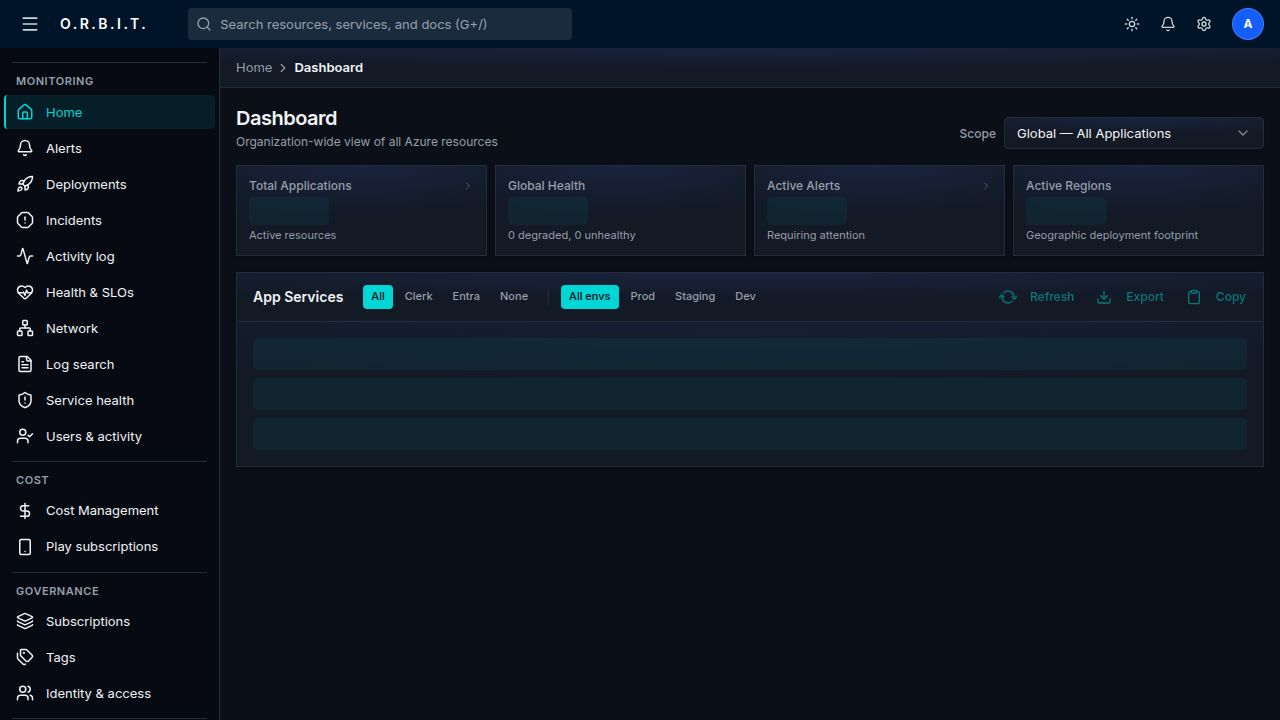
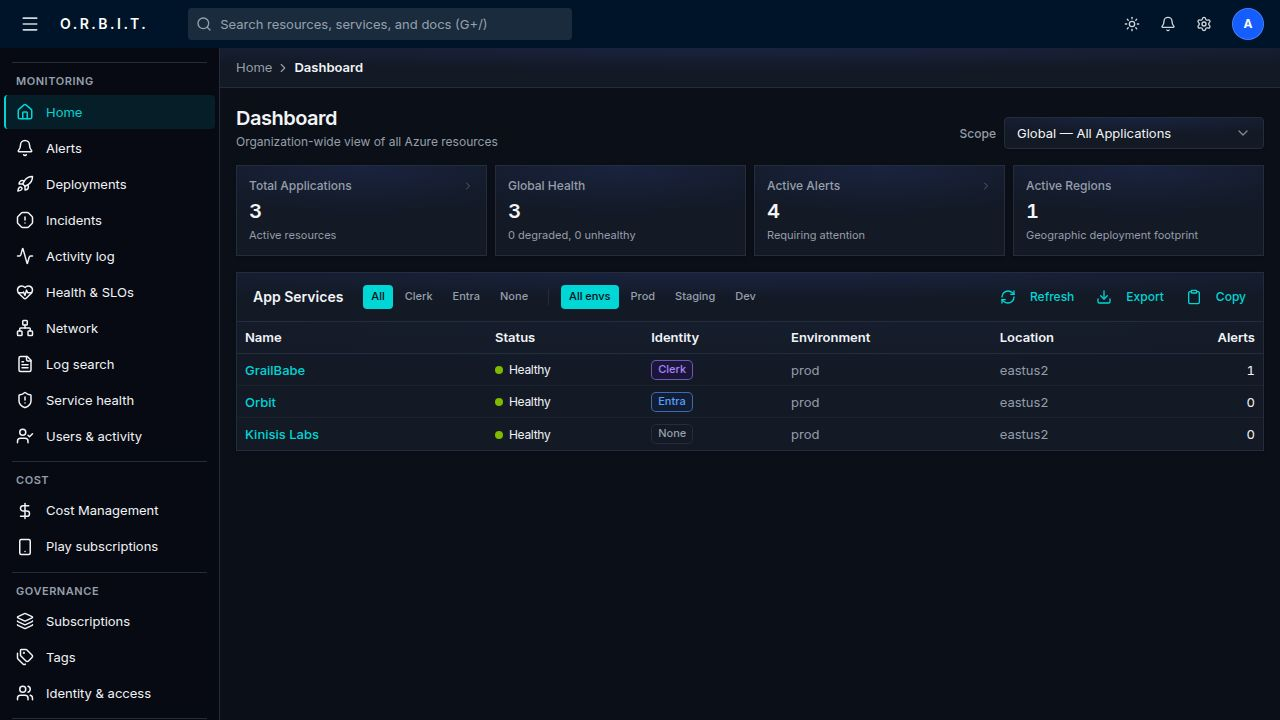
feat: show spend anomaly highlight when a daily bar is unusually high
Task: Show a spend anomaly highlight when a day is unusually high (#93)

## What was built

**Anomaly detection in DailySpendChart (`daily-spend-chart.tsx`)**
- Added `computeAnomalies()` — computes mean + N·σ across the visible window
  (default 2σ). Each data point is enriched with `{ isAnomaly, vsAvgMultiple,
  windowLabel }` that adapts when the user switches 7d / 14d / 30d ranges.
- Added `showAnomalies` (default `true`) and `anomalySigmas` (default `2`) props.
- Anomalous bars render in a distinct amber (`hsl(32 98% 46%)`) so they stand out
  from the primary-colour baseline bars.
- Legend entry "Spend anomaly (>2σ above window average)" appears automatically
  whenever at least one anomalous bar is visible in the current window.

**Tooltip annotation (`daily-spend-tooltip.tsx`)**
- When a bar is anomalous the tooltip gains an amber-coloured row showing
  "⚠ 2.4× 30d average" (or 7d / 14d depending on selected range) and the
  tooltip border turns amber so the callout is visually tied to the bar colour.

**Demo data spikes (`artifacts/api-server/src/routes/orbit.ts`)**
- `makeDaily()` now injects 1–2 deterministic anomaly spikes (2.4–3.0× base)
  per app using a seeded RNG (`seed + "spikes"`) so spikes are stable across
  reloads but vary per app. Without this, the uniform random distribution
  (0.6–1.4× base) never exceeded mean + 2σ (~1.46× base) so no bars would
  ever highlight in the demo environment.

## Scope / no deviations
[…]

diff --git a/artifacts/orbit/src/components/daily-spend-chart.tsx b/artifacts/orbit/src/components/daily-spend-chart.tsx
@@ -9,12 +9,21 @@ type DailyCostPoint = {
   vsLastWeek?: number | null;
 };
 
+type EnrichedPoint = DailyCostPoint & {
+  anomaly?: {
+    isAnomaly: boolean;
+    vsAvgMultiple: number;
+    windowLabel: string;
+  };
+};
+
 type Range = 7 | 14 | 30;
 
 const BAR_COLOR_DEFAULT = "hsl(var(--primary))";
 const BAR_COLOR_UP_MILD = "hsl(38 92% 50%)";
 const BAR_COLOR_UP_HIGH = "hsl(var(--destructive))";
 const BAR_COLOR_DOWN = "hsl(160 84% 39%)";
+const BAR_COLOR_ANOMALY = "hsl(32 98% 46%)";
 
 function getBarFill(vsLastWeek: number | null | undefined, threshold: number): string {
   if (vsLastWeek == null) return BAR_COLOR_DEFAULT;
@@ -29,28 +38,71 @@ const RANGE_OPTIONS: { label: string; days: Range }[] = [
   { label: "30d", days: 30 },
 ];
 
+function computeAnomalies(data: DailyCostPoint[], range: Range, sigmas: number): EnrichedPoint[] {
+  const values = data.map((d) => d.value);
+  if (values.length < 3) return data.map((d) => ({ ...d }));
+
+  const mean = values.reduce((s, v) => s + v, 0) / values.length;
+  const variance = values.reduce((s, v) => s + (v - mean) ** 2, 0) / values.length;
+  const sigma = Math.sqrt(variance);
+  const anomalyThreshold = mean + sigmas * sigma;
+  const windowLabel = `${range}d`;
+
+  return data.map((d) => ({
+    ...d,
+    anomaly: {
+      isAnomaly: d.value > anomalyThreshold && mean > 0,
+      vsAvgMultiple: mean > 0 ? d.value / mean : 1,
+      windowLabel,
+    },
+  }));
+}
+
 export function DailySpendChart({
   daily,
   formatCurrency,
   colorByTrend = false,
+  showAnomalies = true,
   showLegend = false,
   threshold = 15,
+  anomalySigmas = 2,
 }: {
   daily: DailyCostPoint[];
   formatCurrency: (v: number) => string;
   colorByTrend?: boolean;
+  showAnomalies?: boolean;
   showLegend?: boolean;
   threshold?: number;
+  anomalySigmas?: number;
 }) {
   const maxDays = daily.length;
   const defaultRange: Range = maxDays >= 30 ? 30 : maxDays >= 14 ? 14 : 7;
   const [range, setRange] = useState<Range>(defaultRange);
 
   const visibleData = useMemo(() => {
-    return daily.slice(-range);
-  }, [daily, range]);
+    const sliced = daily.slice(-range);
+    return showAnomalies ? computeAnomalies(sliced, range, anomalySigmas) : sliced.map((d) => ({ ...d }));
+  }, [daily, range, showAnomalies, anomalySigmas]);
+
+  const hasAnyAnomaly = useMemo(
+    () => showAnomalies && visibleData.some((d) => (d as EnrichedPoint).anomaly?.isAnomaly),
+    [visibleData, showAnomalies],
+  );
 
   const availableRanges = RANGE_OPTIONS.filter((o) => o.days <= Math.max(maxDays, 7));
+
+  function getCellFill(entry: EnrichedPoint, idx: number): string {
+    const anomaly = entry.anomaly;
+    if (colorByTrend) {
+      return getBarFill(entry.vsLastWeek, threshold);
+    }
+    if (showAnomalies && anomaly?.isAnomaly) {
+      return BAR_COLOR_ANOMALY;
+    }
+    return BAR_COLOR_DEFAULT;
+  }
+
+  const needsCells = colorByTrend || showAnomalies;
 
   return (
     <div className="flex flex-col h-full">
@@ -93,10 +145,10 @@ export function DailySpendChart({
               content={<DailySpendTooltip formatCurrency={formatCurrency} />}
               cursor={{ fill: "hsl(var(--muted))" }}
             />
-            {colorByTrend ? (
+            {needsCells ? (
               <Bar dataKey="value" radius={0}>
                 {visibleData.map((entry, idx) => (
-                  <Cell key={idx} fill={getBarFill(entry.vsLastWeek, threshold)} />
+                  <Cell key={idx} fill={getCellFill(entry as EnrichedPoint, idx)} />
                 ))}
               </Bar>
             ) : (
@@ -105,24 +157,34 @@ export function DailySpendChart({
           </BarChart>
         </ResponsiveContainer>
       </div>
-      {showLegend && colorByTrend && (
+      {(showLegend || hasAnyAnomaly) && (
         <div className="flex flex-wrap items-center gap-x-4 gap-y-1 px-1 pt-2 pb-1 text-[11px] text-muted-foreground shrink-0">
-          <div className="flex items-center gap-1.5">
-            <span className="inline-block w-2.5 h-2.5 shrink-0" style={{ background: BAR_COLOR_DOWN }} />
-            <span>Below last week</span>
-          </div>
-          <div className="flex items-center gap-1.5">
-            <span className="inline-block w-2.5 h-2.5 shrink-0" style={{ background: BAR_COLOR_UP_MILD }} />
-            <span>Up 0–{threshold}%</span>
-          </div>
-          <div className="flex items-center gap-1.5">
-            <span className="inline-block w-2.5 h-2.5 shrink-0" style={{ background: BAR_COLOR_UP_HIGH }} />
-            <span>Up &gt;{threshold}%</span>
-          </div>
-          <div className="flex items-center gap-1.5">
-            <span className="inline-block w-2.5 h-2.5 shrink-0" style={{ background: BAR_COLOR_DEFAULT }} />
-            <span>No prior data</span>
-          </div>
+          {showLegend && colorByTrend && (
+            <>
+              <div className="flex items-center gap-1.5">
+                <span className="inline-block w-2.5 h-2.5 shrink-0" style={{ background: BAR_COLOR_DOWN }} />
+                <span>Below last week</span>
+              </div>
+              <div className="flex items-center gap-1.5">
+                <span className="inline-block w-2.5 h-2.5 shrink-0" style={{ background: BAR_COLOR_UP_MILD }} />
+                <span>Up 0–{threshold}%</span>
+              </div>
+              <div className="flex items-center gap-1.5">
+                <span className="inline-block w-2.5 h-2.5 shrink-0" style={{ background: BAR_COLOR_UP_HIGH }} />
+                <span>Up &gt;{threshold}%</span>
+              </div>
+              <div className="flex items-center gap-1.5">
+                <span className="inline-block w-2.5 h-2.5 shrink-0" style={{ background: BAR_COLOR_DEFAULT }} />
+                <span>No prior data</span>
+              </div>
+            </>
+          )}
+          {hasAnyAnomaly && (
+            <div className="flex items-center gap-1.5">
+              <span className="inline-block w-2.5 h-2.5 shrink-0" style={{ background: BAR_COLOR_ANOMALY }} />
+              <span>Spend anomaly (&gt;{anomalySigmas}σ above window average)</span>
+            </div>
+          )}
         </div>
       )}
     </div>

diff --git a/artifacts/orbit/src/components/daily-spend-tooltip.tsx b/artifacts/orbit/src/components/daily-spend-tooltip.tsx
@@ -1,6 +1,12 @@
 import { format } from "date-fns";
 import type { TooltipProps } from "recharts";
 
+type AnomalyInfo = {
+  isAnomaly: boolean;
+  vsAvgMultiple: number;
+  windowLabel: string;
+};
+
 export function DailySpendTooltip({
   active,
   payload,
@@ -8,15 +14,22 @@ export function DailySpendTooltip({
   formatCurrency,
 }: TooltipProps<number, string> & { formatCurrency: (v: number) => string }) {
   if (!active || !payload?.length) return null;
-  const point = payload[0].payload as { value: number; vsLastWeek?: number | null };
+  const point = payload[0].payload as {
+    value: number;
+    vsLastWeek?: number | null;
+    anomaly?: AnomalyInfo;
+  };
   const vsLastWeek = point.vsLastWeek;
   const isUp = vsLastWeek != null && vsLastWeek > 0;
   const isDown = vsLastWeek != null && vsLastWeek < 0;
+  const anomaly = point.anomaly;
+  const showAnomaly = anomaly?.isAnomaly;
+
   return (
     <div
       style={{
         backgroundColor: "hsl(var(--card))",
-        borderColor: "hsl(var(--border))",
+        borderColor: showAnomaly ? "hsl(32 98% 46%)" : "hsl(var(--border))",
         borderWidth: 1,
         borderStyle: "solid",
         borderRadius: 2,
@@ -35,6 +48,14 @@ export function DailySpendTooltip({
           className={`tabular-nums mt-0.5 ${isUp ? "text-destructive" : isDown ? "text-emerald-500" : "text-muted-foreground"}`}
         >
           {isUp ? "↑" : isDown ? "↓" : "—"} {Math.abs(vsLastWeek).toFixed(1)}% vs last week
+        </div>
+      )}
+      {showAnomaly && anomaly && (
+        <div className="mt-1.5 pt-1.5 border-t border-border/60 flex items-center gap-1 text-[11px] font-medium" style={{ color: "hsl(32 98% 46%)" }}>
+          <span>⚠</span>
+          <span>
+            {anomaly.vsAvgMultiple.toFixed(1)}× {anomaly.windowLabel} average
+          </span>
         </div>
       )}
     </div>

diff --git a/artifacts/api-server/src/routes/orbit.ts b/artifacts/api-server/src/routes/orbit.ts
@@ -154,6 +154,16 @@ function makeDaily(seed: string, days: number, base: number) {
   const values = Array.from({ length: totalDays }, () =>
     Number((base * (0.6 + rand() * 0.8)).toFixed(2))
   );
+  // Inject 1-2 deterministic anomaly spikes into the visible window so
+  // operators can see the amber anomaly highlight in the demo environment.
+  // Spike magnitude is 2.4-3.0× base; positions are seeded so they are
+  // stable across reloads but vary per app.
+  const spikeRand = seededRand(seed + "spikes");
+  const spikeCount = Math.floor(spikeRand() * 2) + 1; // 1 or 2 spikes
+  for (let s = 0; s < spikeCount; s++) {
+    const pos = 7 + Math.floor(spikeRand() * days); // only in visible window
+    values[pos] = Number((base * (2.4 + spikeRand() * 0.6)).toFixed(2));
+  }
   return Array.from({ length: days }, (_, i) => {
     const d = new Date(now);
     d.setUTCHours(0, 0, 0, 0);